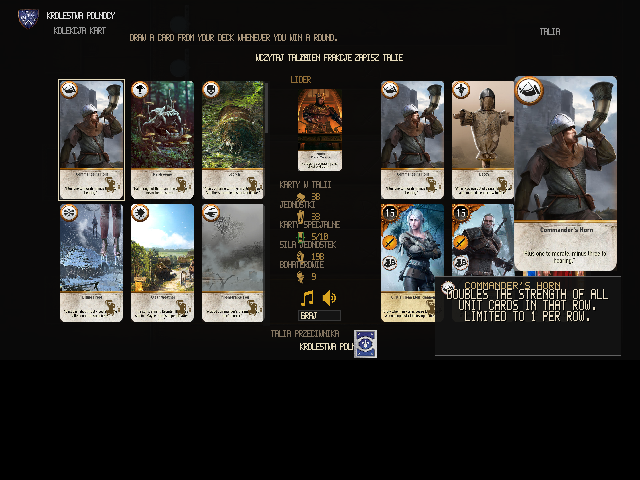
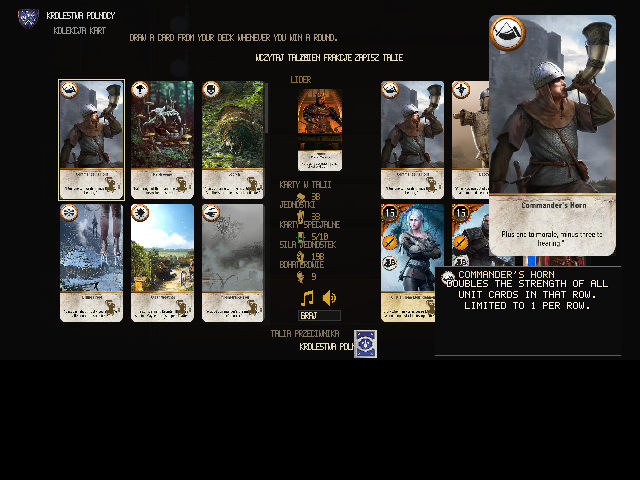
Improve card preview and strength readability

Changed region(s): [[0.6562, 0.0312, 0.9688, 0.6875]]

diff --git a/src/main.cpp b/src/main.cpp
@@ -424,12 +424,12 @@ void drawSourceCard(SDL_Renderer* r,const App& a,int x,int y,const gwent::Card& 
       const int scale=power.size()>1?1:2;
       centeredTextInBox(r,x-1,y-2,24,25,power,paper,scale);
     } else {
-      const int advance=std::min(6,12/static_cast<int>(power.size()));
-      const int numberX=x+1+(12-advance*static_cast<int>(power.size()))/2;
-      // Normal medallions are only about 12 px wide at this render scale.
-      // Fit two digit strengths inside that inner circle and center them.
-      narrowText(r,numberX,y+3,power,Color{28,21,13,220},advance);
-      narrowText(r,numberX,y+2,power,ink,advance);
+      // The badge's inner disc is 12x12 px at the 640x480 render size.
+      // Use the regular bitmap glyphs so two-digit strengths remain legible.
+      const int numberWidth=static_cast<int>(power.size())*6-1;
+      const int numberX=x+6-numberWidth/2;
+      text(r,numberX+1,y+4,power,Color{190,145,70,255},1);
+      text(r,numberX,y+3,power,ink,1);
     }
   }
   if(card.row!=gwent::Row::None) {
@@ -480,12 +480,14 @@ void drawCardFlight(SDL_Renderer* r,const App& a) {
 std::vector<std::string> wrapDetailText(const std::string& value,std::size_t limit);
 void drawCardPreview(SDL_Renderer* r,const App& a,const gwent::Card& card) {
   // CSS reference: .card-preview art at (80.3vw, 11.95vw), 16.1vw x 30.4vw.
-  drawImage(r,a,"img/lg/"+gwent::referenceCardImage(card.referenceIndex),514,76,103,195);
+  // Give the enlarged card enough pixels for its printed name and flavor text
+  // to survive the Miyoo's 640x480 output without competing with board labels.
+  drawImage(r,a,"img/lg/"+gwent::referenceCardImage(card.referenceIndex),489,15,127,241);
   const std::string& title=gwent::referenceCardAbilityTitle(card.referenceIndex);
   const std::string& description=gwent::referenceCardDescription(card.referenceIndex);
   if(title.empty()&&description.empty())return;
-  box(r,435,276,186,80,Color{20,20,20,242});
-  box(r,435,276,186,1,Color{255,255,255,87});
+  box(r,435,266,186,90,Color{12,12,12,255});
+  box(r,435,266,186,1,Color{255,255,255,110});
   box(r,435,355,186,1,Color{255,255,255,87});
   std::string icon;
   if(card.kind!=gwent::Kind::Leader&&!card.abilities.empty()&&
@@ -496,25 +498,18 @@ void drawCardPreview(SDL_Renderer* r,const App& a,const gwent::Card& card) {
     if(icon.rfind("scorch",0)==0)icon="scorch";
     if(icon=="hero")icon.clear();
   } else if(card.agile)icon="agile";
-  if(!icon.empty())drawImage(r,a,"img/icons/card_ability_"+icon+".png",441,281,14,14);
-  text(r,465,282,title,Color{210,180,120},1);
+  if(!icon.empty())drawImage(r,a,"img/icons/card_ability_"+icon+".png",441,271,14,14);
+  const auto titleLines=wrapDetailText(title,26);
+  int textY=271;
+  for(const auto& line:titleLines) { text(r,459,textY,line,Color{255,220,153},1);textY+=9; }
   const auto lines=wrapDetailText(description,29);
   for(std::size_t i=0;i<lines.size();++i) {
     const auto& line=lines[i];
-    const auto drawTall=[&](int ox,int oy,Color c) {
-      color(r,c);
-      for(std::size_t n=0;n<line.size();++n) {
-        const auto it=font().find(line[n]);const Glyph g=it==font().end()?font().at('?'):it->second;
-        for(int row=0;row<7;++row)for(int col=0;col<5;++col)if(g[row]&(1u<<(4-col))) {
-          const int top=(row*3)/2,bottom=((row+1)*3)/2;
-          const int renderedWidth=static_cast<int>(line.size())*6-1;
-          const int startX=435+(186-renderedWidth)/2;
-          SDL_Rect p{startX+static_cast<int>(n)*6+col+ox,289+static_cast<int>(i)*11+top+oy,1,bottom-top};SDL_RenderFillRect(r,&p);
-        }
-      }
-    };
-    drawTall(1,1,Color{0,0,0,230});
-    drawTall(0,0,Color{235,223,198});
+    const int lineY=textY+static_cast<int>(i)*11;
+    if(lineY+7>354)break;
+    const int lineX=435+(186-textWidth(line))/2;
+    text(r,lineX+1,lineY+1,line,Color{0,0,0,255},1);
+    text(r,lineX,lineY,line,Color{255,243,219,255},1);
   }
 }
 std::vector<std::string> wrapDetailText(const std::string& value,std::size_t limit) {
@@ -535,29 +530,29 @@ std::vector<std::string> wrapDetailText(const std::string& value,std::size_t lim
 }
 void drawCardDetails(SDL_Renderer* r,const App& a,const gwent::Card& card) {
   box(r,0,0,W,H,Color{0,0,0,255});
-  drawImage(r,a,"img/lg/"+gwent::referenceCardImage(card.referenceIndex),24,24,214,406);
-  frame(r,23,23,216,408,gold);
-  box(r,252,23,366,434,Color{20,20,20,250});
-  frame(r,252,23,366,434,Color{143,108,54});
-  text(r,270,40,tr(a,"card_details"),gold,2);
+  drawImage(r,a,"img/lg/"+gwent::referenceCardImage(card.referenceIndex),8,8,246,465);
+  frame(r,7,7,248,467,gold);
+  box(r,264,23,354,434,Color{20,20,20,250});
+  frame(r,264,23,354,434,Color{143,108,54});
+  text(r,280,40,tr(a,"card_details"),gold,2);
   const auto nameLines=wrapDetailText(card.name,27);
   int y=68;
-  for(const auto& line:nameLines) { text(r,270,y,line,paper,2);y+=18; }
+  for(const auto& line:nameLines) { text(r,280,y,line,paper,2);y+=18; }
   std::string row=card.row==gwent::Row::Ranged?tr(a,"ranged"):card.row==gwent::Row::Siege?tr(a,"siege"):card.row==gwent::Row::Melee?tr(a,"melee"):tr(a,"special");
-  text(r,270,y+4,tr(a,"power")+" "+std::to_string(card.power)+"  "+tr(a,"row")+" "+row,Color{210,180,120},1);
+  text(r,280,y+4,tr(a,"power")+" "+std::to_string(card.power)+"  "+tr(a,"row")+" "+row,Color{235,207,164},1);
   y+=28;
   const auto& title=gwent::referenceCardAbilityTitle(card.referenceIndex);
   const auto& description=gwent::referenceCardDescription(card.referenceIndex);
   if(!title.empty()) {
-    for(const auto& line:wrapDetailText(title,27)) { text(r,270,y,line,gold,2);y+=18; }
+    for(const auto& line:wrapDetailText(title,27)) { text(r,280,y,line,gold,2);y+=18; }
     y+=4;
   }
   const auto descriptionLines=wrapDetailText(description.empty()?tr(a,"no_ability"):description,28);
   for(const auto& line:descriptionLines) {
     if(y>414)break;
-    text(r,270,y,line,Color{220,210,190},2);y+=18;
+    text(r,280,y,line,Color{242,234,218},2);y+=18;
   }
-  text(r,270,433,tr(a,"close_card"),Color{149,149,149},1);
+  text(r,280,433,tr(a,"close_card"),Color{185,185,185},1);
 }
 void drawRow(SDL_Renderer* r,const App& a,int owner,int row,int y) {
   constexpr int left=170,width=336,rowHeight=44;

diff --git a/TEST_REPORT.md b/TEST_REPORT.md
@@ -51,3 +51,5 @@ Porównanie z `Weather.addCard` w przypiętym `gwent.js` wykazało, że aktywny 
 ## Korekta klatek i czytelności liczb/kart
 
 Oględziny smoke frame meczu ujawniły, że renderer nie czyścił bufora po edytorze talii; w dolnej części kadru pozostawała stara grafika karty. Dodano czyszczenie renderera w pętli gry i przed każdą klatką smoke. Dwucyfrowa siła mieści się teraz w power medallion, a wynik rundy jest wycentrowany. Panel opisu karty pokazuje pełny tekst (bez limitu trzech linii) w wyższej czcionce. Klatka inspektora została ustawiona na Cirillę, by sprawdzić długą nazwę, cytat w oryginalnej ilustracji i pełny opis Muster. Build SDL2 Ubuntu 24.04, CTest (2/2) i czteroklatkowy smoke test zakończone powodzeniem; kadry sprawdzono wizualnie. Nadal wymagane są test na Miyoo i porównanie całego UI ze źródłem.
+
+Po kolejnym zgłoszeniu problemu z czytelnością UI powiększono podgląd ilustracji kart na planszy oraz kartę w inspektorze; karta Cirilli zajmuje teraz niemal całą dostępną wysokość, dzięki czemu jej oryginalny cytat i nazwa są wyraźniejsze. Moc na zwykłych kartach jest rysowana standardowym, kontrastowym krojem i wycentrowana w medalionie; poprawiono też kontrast/nieprzezroczystość panelu opisu. Build SDL2 w Ubuntu 24.04 i czteroklatkowy smoke render zakończyły się poprawnie. Kadry meczu i inspektora ponownie obejrzano w 640×480. To desktopowy render, a nie weryfikacja na fizycznym Miyoo.

diff --git a/PROGRESS.md b/PROGRESS.md
@@ -76,3 +76,4 @@ Nie zmienia to bieżącego celu: najpierw kompletna rozgrywka Gwinta z Wiedźmin
 ## Zasada raportowania
 
 Funkcja pozostaje nieukończona, dopóki nie ma implementacji i testu. Kompatybilność urządzenia nie będzie oznaczana jako potwierdzona bez testu fizycznego.
+- [~] Po ponownym zgłoszeniu czytelności powiększono podgląd kart na stole i grafikę w inspektorze (w tym cytat Cirilli), zmieniono kolor oraz centrowanie liczb siły i zwiększono kontrast panelu opisu. Lokalny frontend SDL zbudował się i wygenerował cztery klatki smoke 640×480; fizyczny test Miyoo pozostaje otwarty.
